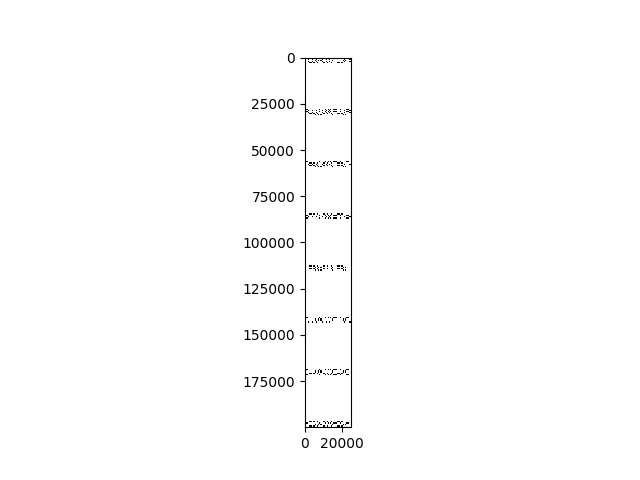
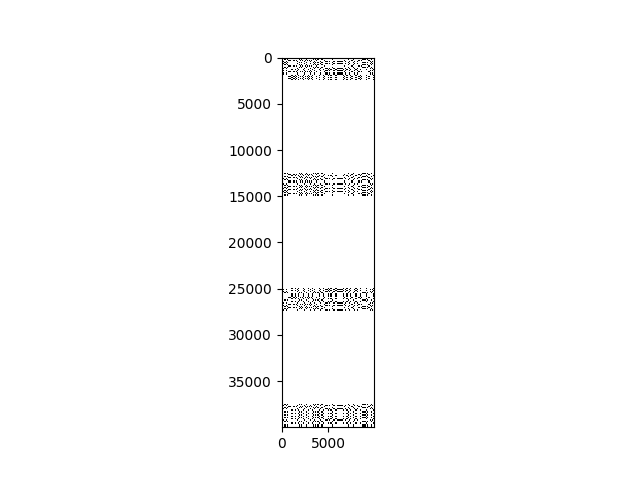
funcion de filtro

diff --git a/filtro_multiprocessing.py b/filtro_multiprocessing.py
@@ -1,0 +1,50 @@
+import cv2
+import numpy as np
+from multiprocessing import Pool, cpu_count
+import matplotlib.pyplot as plt
+
+def load_image(file_path):
+    """Carga la imagen en escala de grises."""
+    image = cv2.imread(file_path, cv2.IMREAD_GRAYSCALE)
+    return image
+
+def filter_diagonals(image):
+    """Aplica un filtro para resaltar las diagonales."""
+    kernel = np.array([[1, 0, -1],
+                       [0, 1, 0],
+                       [-1, 0, 1]])
+    filtered_image = cv2.filter2D(image, -1, kernel)
+    return filtered_image
+
+def process_chunk(chunk):
+    """Procesa un fragmento de la imagen para identificar las diagonales."""
+    return filter_diagonals(chunk)
+
+def divide_chunks(image, num_chunks):
+    """Divide la imagen en fragmentos para el procesamiento en paralelo."""
+    chunk_size = image.shape[0] // num_chunks
+    return [image[i*chunk_size:(i+1)*chunk_size, :] for i in range(num_chunks)]
+
+def merge_chunks(chunks):
+    """Combina los fragmentos procesados en una sola imagen."""
+    return np.vstack(chunks)
+
+def main(file_path):
+    image = load_image(file_path)
+    num_chunks = cpu_count()
+    chunks = divide_chunks(image, num_chunks)
+    
+    with Pool(processes=num_chunks) as pool:
+        processed_chunks = pool.map(process_chunk, chunks)
+    
+    filtered_image = merge_chunks(processed_chunks)
+    
+    plt.imshow(filtered_image, cmap='gray')
+    plt.title("Diagonales Identificadas en el Dotplot")
+    plt.xlabel("Secuencia 2")
+    plt.ylabel("Secuencia 1")
+    plt.show()
+
+if __name__ == "__main__":
+    file_path = "./dotplot_secuencial.png"
+    main(file_path)

diff --git a/dotplot_hilos.py b/dotplot_hilos.py
@@ -33,7 +33,13 @@ def draw_dotplot(matrix, fig_name):
     plt.imshow(matrix, cmap='Greys', interpolation='none')
     plt.ylabel("Secuencia 1")
     plt.xlabel("Secuencia 2")
-    plt.savefig(fig_name)
+    fig, ax = plt.subplots()
+
+    cax = ax.imshow(matrix, cmap='Greys', interpolation='none')
+
+    ax.axis('off')
+    plt.subplots_adjust(left=0, right=1, top=1, bottom=0)
+    plt.savefig(fig_name, bbox_inches='tight', pad_inches=0)
     plt.close()
     end_time = time.time()  # Tiempo final para la generación de la imagen
     print(f"Tiempo para generar y guardar la imagen: {end_time - start_time:.2f} segundos")
